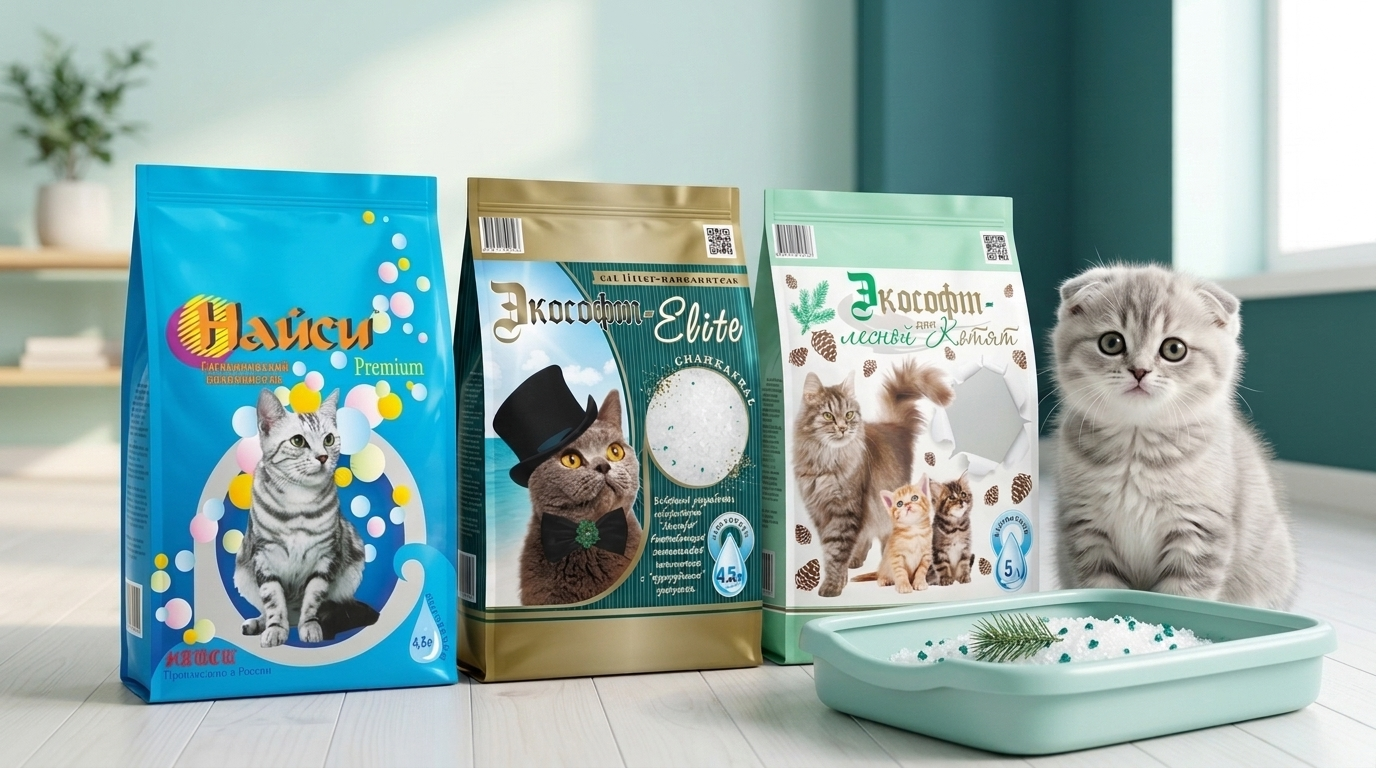
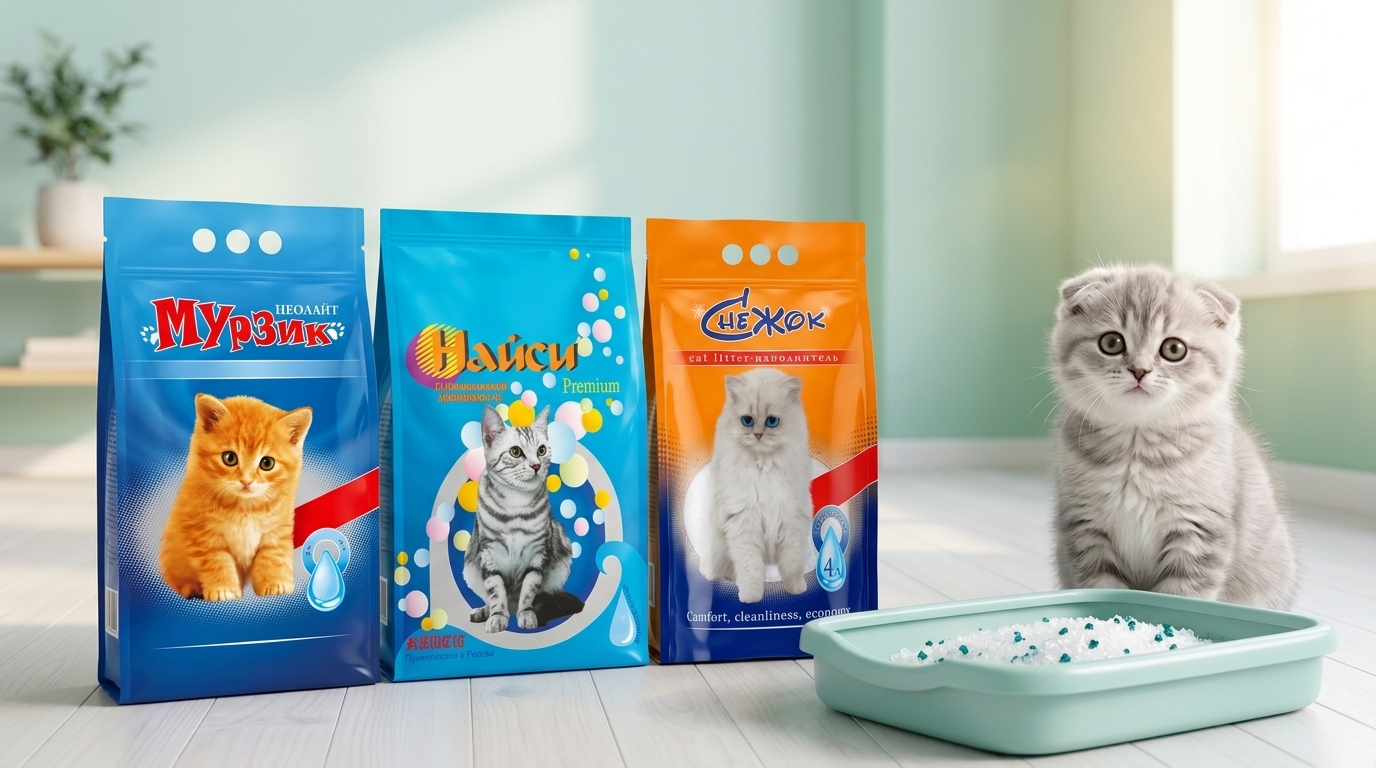
Уточнена хронология развития компании (1998 ИП Мурзик -> 2003 ООО Экософт -> 2023 белые мешки) и выделено свойство белых гранул как индикатора здоровья при заболеваниях

diff --git a/index.html b/index.html
@@ -98,7 +98,7 @@
           <!-- Right Column: Large Organic Hero Visual with Real Product Packs & Cute Kitten (6 cols) -->
           <div class="lg:col-span-6 relative">
             <div class="relative rounded-[28px] overflow-hidden shadow-[0_20px_50px_rgba(0,103,92,0.14)] ring-1 ring-primary/10 bg-pure-white">
-              <img src="image/hero_kitten_packs.jpg" alt="Упаковки наполнителей Экософт, Найси, лоток с гранулами и котёнок" class="w-full h-[320px] sm:h-[390px] lg:h-[420px] object-cover object-center block"/>
+              <img src="image/hero_kitten_packs.jpg" alt="Упаковки наполнителей Мурзик Цеолайт, Найси Премиум, Снежок, лоток с белыми гранулами и котёнок" class="w-full h-[320px] sm:h-[390px] lg:h-[420px] object-cover object-center block"/>
             </div>
           </div>
         </div>
